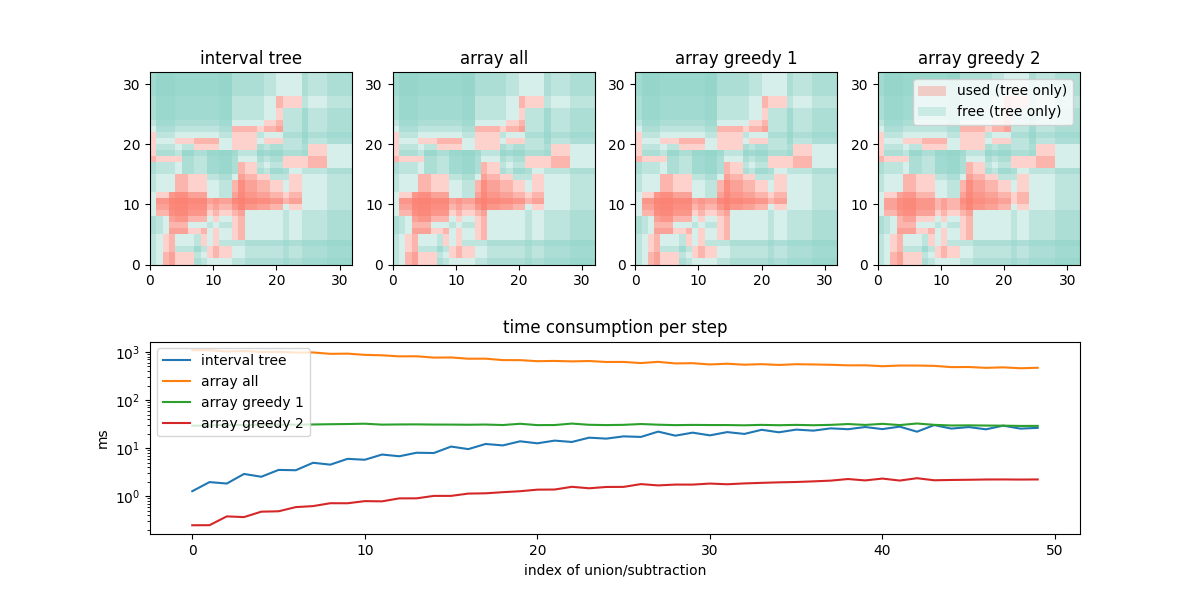
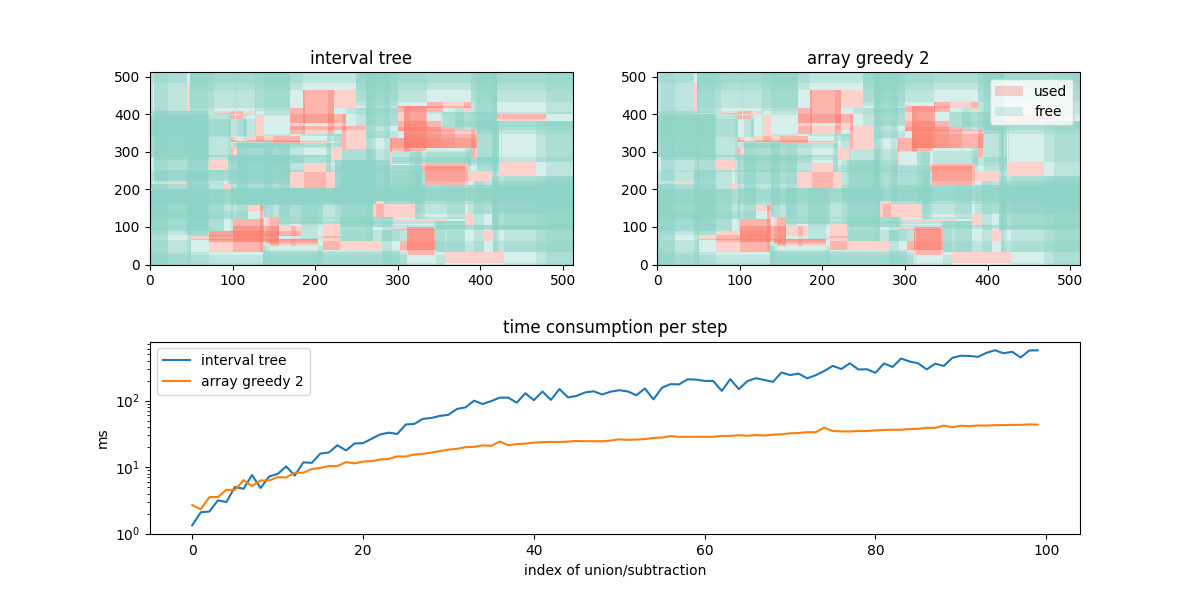
remove all removable boundaries after every step

diff --git a/rportion/tests/test_rportion.py b/rportion/tests/test_rportion.py
@@ -7,10 +7,29 @@ import portion as P
 from portion.interval import open, closedopen, Atomic, empty, Interval
 
 from rportion import RPolygon
-from rportion.rportion import ropen, rclosedopen, rclosed, rempty
+from rportion.rportion import ropen, rclosedopen, rclosed, rempty, RBoundary
 
 from rportion.tests.algorithms import get_maximal_rectangles_from_numpy
 
+
+def data_tree_to_string(x_boundaries: list[RBoundary],
+                        y_intervals: list[list[Interval]],
+                        spacing: int):
+    n = len(y_intervals)
+    msg = " "*spacing + "|"
+    for x_b in x_boundaries[-1:0:-1]:
+        msg += f"{str(x_b):>{spacing}}"
+    msg += "\n" + f"-"*spacing + "+"
+    for i in range(n):
+        msg += f"-"*spacing
+    msg += "\n"
+    for i, row in enumerate(y_intervals):
+        x_b = x_boundaries[i]
+        msg += f"{str(~x_b):>{spacing}}|"
+        for val in row:
+            msg += f"{str(val):>{spacing}}"
+        msg += "\n"
+    return msg
 
 def print_mat(mat: list[list[Interval]]):
     for row in mat:
@@ -20,18 +39,19 @@ def print_mat(mat: list[list[Interval]]):
     print()
 
 
-def print_rpolygon(rpoly: RPolygon, show_trees=False):
+def print_rpolygon(rpoly: RPolygon, show_trees=False, spacing=20):
     if show_trees:
-        print("Data Trees")
-        print(rpoly._x_boundaries)
-        print_mat(rpoly._used_y_ranges)
-        print_mat(rpoly._free_y_ranges)
-    print("Maximal used rectangles")
-    for i, e in enumerate(rpoly.maximal_used_rectangles(), start=1):
-        print(i, "-->", e.enclosing_x_interval, e.enclosing_y_interval)
-    print("Maximal free rectangles")
-    for i, e in enumerate(rpoly.maximal_free_rectangles(), start=1):
-        print(i, "-->", e.enclosing_x_interval, e.enclosing_y_interval)
+        print("USED")
+        msg = data_tree_to_string(list(rpoly._x_boundaries), rpoly._used_y_ranges, spacing)
+        print(msg)
+        for i, e in enumerate(rpoly.maximal_used_rectangles(), start=1):
+            print(i, "-->", e.enclosing_x_interval, e.enclosing_y_interval)
+        print("FREE")
+        msg = data_tree_to_string(list(rpoly._x_boundaries), rpoly._free_y_ranges, spacing)
+        print(msg)
+        for i, e in enumerate(rpoly.maximal_free_rectangles(), start=1):
+            print(i, "-->", e.enclosing_x_interval, e.enclosing_y_interval)
+
 
 
 class TestRPortion(unittest.TestCase):
@@ -165,19 +185,14 @@ class TestRPortion(unittest.TestCase):
         # Add three sectors in each six possible different orders and test if the result underlying
         # data structure of RPolygon is the same for all.
         #
-        #     x1 x2 x3  x4 x5 x6
-        #      +----+
-        #      |  +-|------+
-        #      +--|-+      |
-        #         |        |
-        #         |      +-|--+
-        #         +------|-+  |
-        #                +----+
-        x1, x2, x3, x4 = (1, 2, 3, 4)
-        y_interval_1 = closedopen(-1, 1)
-        y_interval_2 = closedopen(0, 2)
-        x_lims = [(x1, x3), (x4, x6), (x2, x5)]
-        y_intervals = [y_interval_1, y_interval_2, y_interval_3]
+        #      x1 x2 x3 x4 x5
+        #      +--+--+--+--+
+        #      |  |  |  |  |
+        #      +--+--+--+--+
+        x1, x2, x3, x4, x5 = (1, 2, 3, 4, 5)
+        y_interval = closedopen(0, 1)
+        x_lims = [(x1, x3), (x2, x4), (x3, x5)]
+        y_intervals = [y_interval, y_interval, y_interval]
         poly_list = []
         for arrangement in permutations(zip(x_lims, y_intervals)):
             poly = rempty()
@@ -187,6 +202,7 @@ class TestRPortion(unittest.TestCase):
         for poly_1, poly_2 in combinations(poly_list, 2):
             self.assertListEqual(poly_1._used_y_ranges, poly_2._used_y_ranges)
             self.assertListEqual(poly_1._free_y_ranges, poly_2._free_y_ranges)
+
 
     def test_RPolygon___sub__(self):
         poly = rclosedopen(-P.inf, 0, -P.inf, P.inf)
@@ -210,6 +226,7 @@ class TestRPortion(unittest.TestCase):
         x_atom = closedopen(-P.inf, 1)
         y_interval = empty()
         poly._add_atomic(x_atom, y_interval)
+        print_rpolygon(poly, show_trees=True, spacing=15)
         self.assertListEqual(poly._used_y_ranges, [[empty()]])
         self.assertListEqual(poly._free_y_ranges, [[open(-P.inf, P.inf)]])
 

diff --git a/rportion/rportion.py b/rportion/rportion.py
@@ -95,6 +95,7 @@ def _y_interval_triangle_prunable(bound_index: int, y_interval_triangle: list[li
 
     :bound_index int:
     :y_interval_triangle list[list[Interval]]:
+    :return bool:
 
     For the following triangle the boundary 4 can be pruned, because
       - the y-intervals of row (Y) are contained in the corresponding
@@ -141,17 +142,24 @@ def _y_interval_triangle_prunable(bound_index: int, y_interval_triangle: list[li
     return True
 
 
-def _remove_boundary(bound_index: int, y_interval_triangle: list[list[Interval]]):
-    """
-    Remove row and columns from y_interval_triangle specified by bound_index.
+def _interval_triangle_prunable_indices(y_interval_triangle: list[list[Interval]]) -> list[int]:
+    """Return a list of indices which can be removed from y_interval_triangle."""
+    n = len(y_interval_triangle)
+    return [b_index for b_index in range(1, n+1)
+            if _y_interval_triangle_prunable(b_index, y_interval_triangle)]
 
-    :bound_index int:
+
+def _remove_boundaries(bound_indices: list[int], y_interval_triangle: list[list[Interval]]):
+    """
+    Remove rows and columnss from y_interval_triangle specified by bound_indices.
+
+    :bound_indices list[int]:
     :y_interval_triangle list[list[Interval]]: Data
 
     This function is meant to be performed if the boundary is prunable, see function
     `_y_interval_triangle_prunable`.
 
-    I.e. for bound_index == 1 we get
+    I.e. for bound_indices == [1] we get
 
              old y-interval-triangle                         new y-interval-triangle
 
@@ -163,9 +171,12 @@ def _remove_boundary(bound_index: int, y_interval_triangle: list[list[Interval]]
             5  |   ()
     """
     n = len(y_interval_triangle)
-    for i in range(bound_index):
-        y_interval_triangle[i].pop(n - bound_index)
-    y_interval_triangle.pop(bound_index)
+    n_removed = 0
+    for bound_index in sorted(bound_indices):
+        for i in range(bound_index - n_removed):
+            y_interval_triangle[i].pop(n - bound_index)
+        y_interval_triangle.pop(bound_index - n_removed)
+        n_removed += 1
 
 
 def _update_x_boundaries_and_y_interval_triangles(
@@ -252,29 +263,15 @@ def _update_x_boundaries_and_y_interval_triangles(
                 y_interval_triangle_sub[i][j] -= other_y_interval
 
     # (d) Prune the y-interval-triangles if possible
-    l_ind = x_boundaries.bisect_left(x_b_left)
-
-    l_prunable_add = _y_interval_triangle_prunable(l_ind, y_interval_triangle_add)
-    l_prunable_sub = _y_interval_triangle_prunable(l_ind, y_interval_triangle_sub)
-    assert l_prunable_add == l_prunable_sub, (
+    indices_add = _interval_triangle_prunable_indices(y_interval_triangle_add)
+    indices_sub = _interval_triangle_prunable_indices(y_interval_triangle_sub)
+    assert indices_add == indices_sub, (
         "If one y-interval-triangle is prunable then the other should be too"
     )
-    if l_prunable_add and l_prunable_sub:
-        _remove_boundary(l_ind, y_interval_triangle_add)
-        _remove_boundary(l_ind, y_interval_triangle_sub)
-        x_boundaries.remove(x_b_left)
-
-    r_ind = x_boundaries.bisect_left(x_b_right)
-
-    r_prunable_add = _y_interval_triangle_prunable(r_ind, y_interval_triangle_add)
-    r_prunable_sub = _y_interval_triangle_prunable(r_ind, y_interval_triangle_sub)
-    assert r_prunable_add == r_prunable_sub, (
-        "If one y-interval-triangle is prunable then the other should be too"
-    )
-    if r_prunable_add and r_prunable_sub:
-        _remove_boundary(r_ind, y_interval_triangle_add)
-        _remove_boundary(r_ind, y_interval_triangle_sub)
-        x_boundaries.remove(x_b_right)
+    _remove_boundaries(indices_add, y_interval_triangle_add)
+    _remove_boundaries(indices_add, y_interval_triangle_sub)
+    for ind in sorted(indices_add, reverse=True):
+        x_boundaries.pop(ind)
 
 
 def _traverse_diagonally(boundaries: list[RBoundary],

diff --git a/docu/visualizations.py b/docu/visualizations.py
@@ -355,20 +355,20 @@ def create_random_polygon(n: int,
 
 
 def evaluate_random_polygon(save_image=True, show_progress=True):
-    n = 50
-    x_max = 32
-    max_x_len = 8
-    y_max = 32
-    max_y_len = 8
+    n = 100
+    x_max = 512
+    max_x_len = 75
+    y_max = 512
+    max_y_len = 75
 
     algos = [
         algo_interval_tree,
-        algo_array_all,
-        algo_array_greedy_1,
+        # algo_array_all,
+        # algo_array_greedy_1,
         algo_array_greedy_2
     ]
 
-    repetitions = 10
+    repetitions = 1
     max_rectangles_dict, times_dict = create_random_polygon(n=n,
                                                             x_max=x_max, max_x_len=max_x_len,
                                                             y_max=y_max, max_y_len=max_y_len,
@@ -429,8 +429,8 @@ def evaluate_random_polygon(save_image=True, show_progress=True):
 
         for i, (name, max_rectangles) in enumerate(max_rectangles_dict.items()):
             algo_axes[i].set_title(f"{name}")
-            plot_rectangles(algo_axes[i], max_rectangles[0], 3, "used (tree only)")
-            plot_rectangles(algo_axes[i], max_rectangles[1], 0, "free (tree only)")
+            plot_rectangles(algo_axes[i], max_rectangles[0], 3, "used")
+            plot_rectangles(algo_axes[i], max_rectangles[1], 0, "free")
             algo_axes[i].set_title(f"{name}")
             algo_axes[i].set_xlim(x_lim)
             algo_axes[i].set_ylim(y_lim)
@@ -469,7 +469,7 @@ def benchmark():
             _, times_dict = create_random_polygon(n=n,
                                                   x_max=x_max, max_x_len=max_x_len,
                                                   y_max=y_max, max_y_len=max_y_len,
-                                                  algorithms=algorithms)
+                                                  algorithms=algos)
             for algo in algos:
                 times[algo][i] += times_dict[algo].sum() / repetitions
 
@@ -484,7 +484,7 @@ def benchmark():
 
 
 def main():
-    random.seed(4)
+    random.seed(452351)
     print("creating gif")
     create_gif()
     print("evaluate a random sequence of unions and subtractions")
